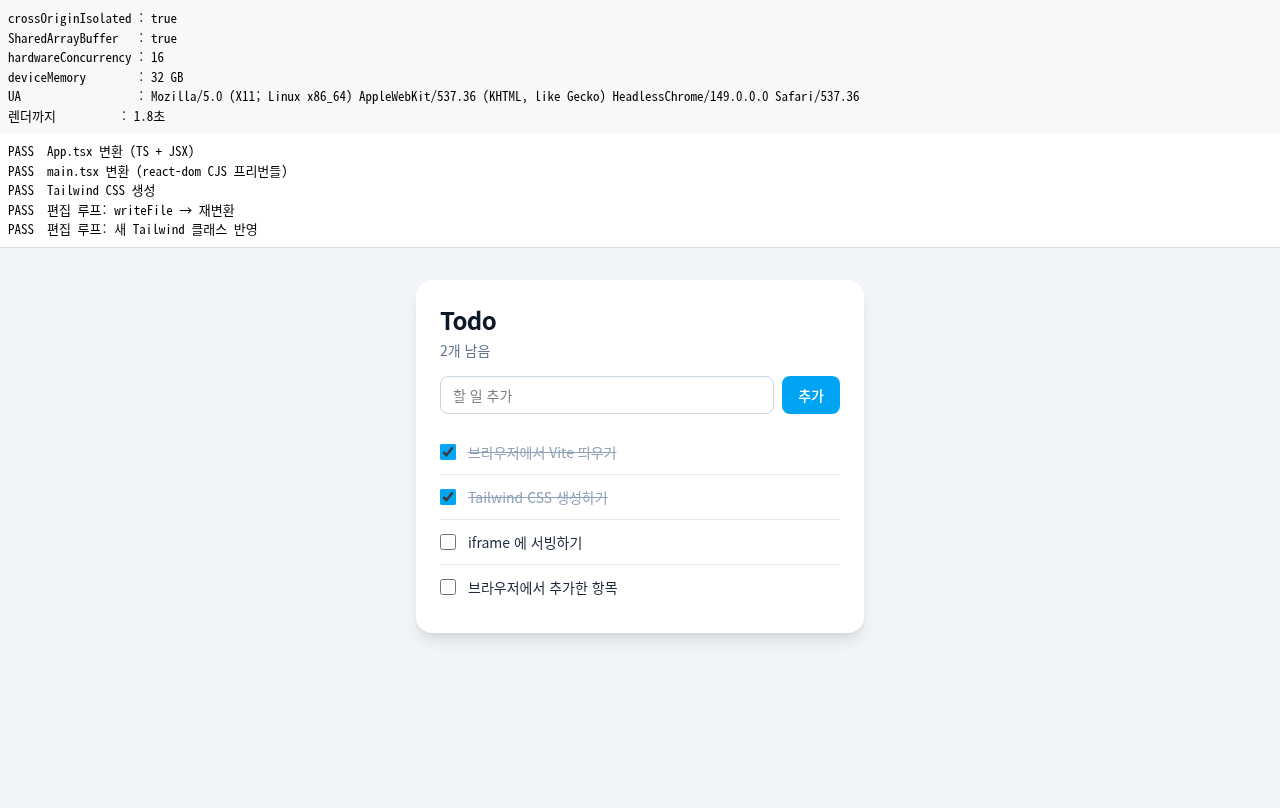
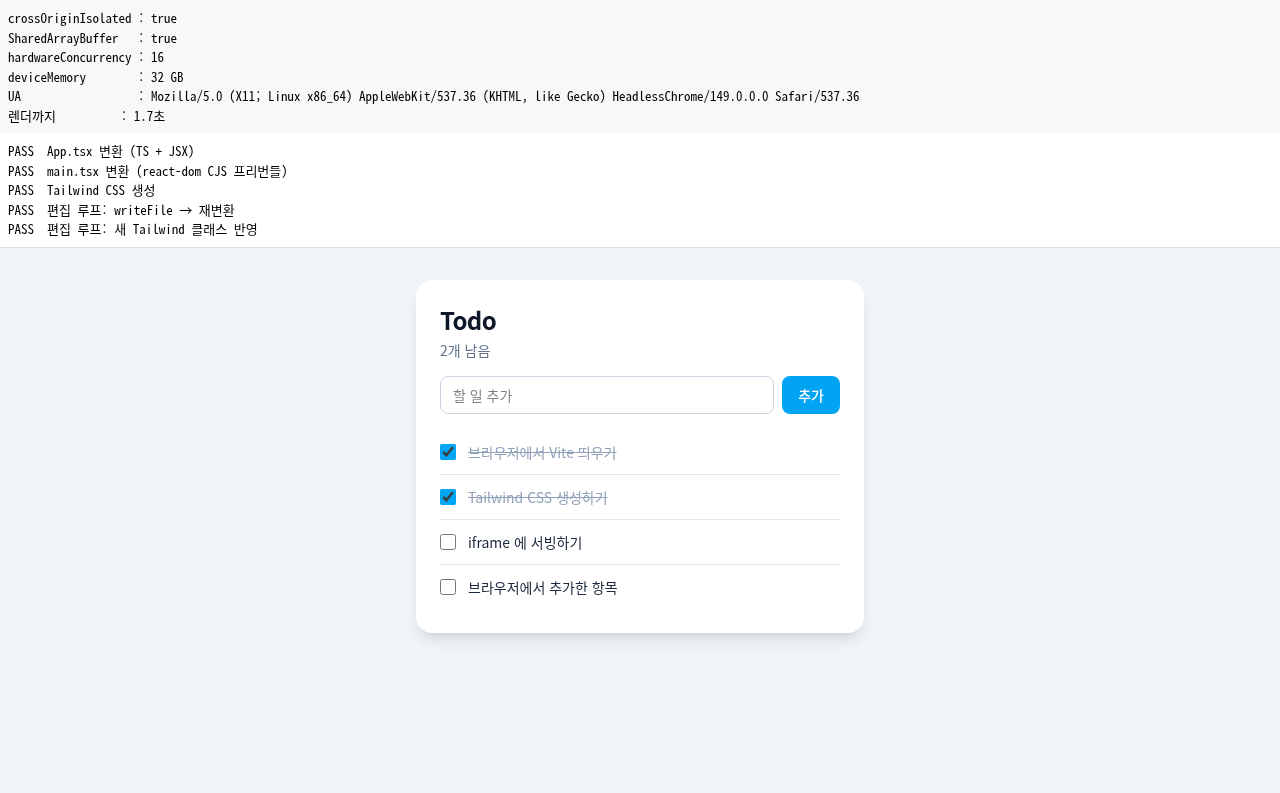
JSR 배포 가능하게 정리 — dry run 통과
두 가지가 막고 있었다:

1. **Vite 전용 문법이 JSR(Deno)에서 안 먹는다.**
       error: Package subpath './lightningcss_node.wasm?url' is not defined by "exports"
   `?url` 은 Vite 만 아는 접미사다. 다행히 lightningcss-wasm 의 init(input) 은
   인자가 없으면 `new URL('lightningcss_node.wasm', import.meta.url)` 을 기본값으로
   쓴다 (index.mjs 확인) — 정확히 같은 일이므로 import 를 그냥 뺐다.
   나머지 ?raw / virtual: 는 전부 주석 안이라 무관.

2. **slow types 48개** — 전부 src/shims/* 의 래퍼들이었다
   (`export const readdir = wrap('readdir')` 같은 것들).
   그런데 셤은 애초에 사용자가 직접 import 할 물건이 아니다 —
   nodeShimAlias() 가 **파일 경로**로 가리킨다. jsr.json 의 exports 에서 빼니
   해결됐다. 파일은 여전히 배포되므로 alias 는 그대로 동작한다.
   (shims/globals 만 남긴다 — 워커에서 사용자가 직접 import 해야 한다.)

회귀 없음: 앱 렌더 2.0초, 전부 통과.

diff --git a/src/shims/lightningcss.ts b/src/shims/lightningcss.ts
@@ -36,12 +36,17 @@ import init, {
   transform,
   transformStyleAttribute,
 } from 'lightningcss-wasm'
-// .wasm 만은 exports 맵에 명시적으로 열려 있다
-import wasmUrl from 'lightningcss-wasm/lightningcss_node.wasm?url'
 
 // 톱레벨 await — 이 모듈을 import 하는 쪽은 여기가 끝날 때까지 블록된다.
 // 그래서 아래 re-export 들은 항상 "이미 init 된" 상태로 쓰인다.
-await init(wasmUrl)
+//
+// 인자를 안 준다: init 은 기본값으로
+//     new URL('lightningcss_node.wasm', import.meta.url)
+// 을 쓴다 (lightningcss-wasm/index.mjs 확인). 예전엔 `?url` 로 URL 을 넘겼는데,
+// 그건 **Vite 전용 문법**이라 JSR(Deno) 이 해석하지 못해 publish 가 막혔다:
+//     error: Package subpath './lightningcss_node.wasm?url' is not defined by "exports"
+// 기본값이 정확히 같은 일을 하므로 그냥 뺀다.
+await init()
 
 export {
   bundle,